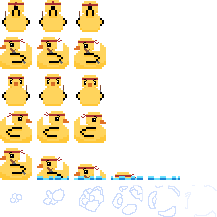
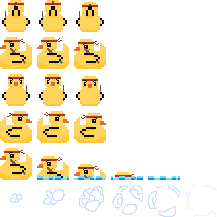
Ducks have now better animations and water lilies move slightly

diff --git a/src/de/essen_sie_ihre_toten/pond_simulator_2020/entities/duck/BaseDuck.java b/src/de/essen_sie_ihre_toten/pond_simulator_2020/entities/duck/BaseDuck.java
@@ -164,27 +164,27 @@ public abstract class BaseDuck extends Entity {
 
     // Methods
     // Rendering
-    public static Animation[] loadSprites(SpriteSheet spriteSheet) {
+    public static Animation[] loadSprites(SpriteSheet spriteSheet, int swimFramesNb) {
         Animation[] animations = new Animation[10];
 
         // Idle
-        animations[0] = loadAnimation(spriteSheet, 0, 1, 0); // Up
-        animations[1] = loadAnimation(spriteSheet, 0, 1, 1); // Left
-        animations[2] = loadAnimation(spriteSheet, 0, 1, 2); // Bottom
-        animations[3] = loadAnimation(spriteSheet, 0, 1, 3); // Right
+        animations[0] = loadAnimation(spriteSheet, 0, 1, 0, 300); // Up
+        animations[1] = loadAnimation(spriteSheet, 0, 1, 1, 300); // Left
+        animations[2] = loadAnimation(spriteSheet, 0, 1, 2, 300); // Bottom
+        animations[3] = loadAnimation(spriteSheet, 0, 1, 3, 300); // Right
 
         // Swim
-        animations[4] = loadAnimation(spriteSheet, 1, 3, 0); // Up
-        animations[5] = loadAnimation(spriteSheet, 1, 3, 1); // Left
-        animations[6] = loadAnimation(spriteSheet, 1, 3, 2); // Bottom
-        animations[7] = loadAnimation(spriteSheet, 1, 3, 3); // Right
+        animations[4] = loadAnimation(spriteSheet, 0, swimFramesNb, 0, 300); // Up
+        animations[5] = loadAnimation(spriteSheet, 0, swimFramesNb, 1, 300); // Left
+        animations[6] = loadAnimation(spriteSheet, 0, swimFramesNb, 2, 300); // Bottom
+        animations[7] = loadAnimation(spriteSheet, 0, swimFramesNb, 3, 300); // Right
 
         // Die
-        animations[8] = loadAnimation(spriteSheet, 0, 5, 4);
+        animations[8] = loadAnimation(spriteSheet, 0, 5, 4, 100);
         animations[8].setLooping(false);
 
         // Explosion
-        animations[9] = loadAnimation(spriteSheet, 0, 6, 5);
+        animations[9] = loadAnimation(spriteSheet, 0, 6, 5, 100);
         animations[9].setLooping(false);
 
         return animations;

diff --git a/src/de/essen_sie_ihre_toten/pond_simulator_2020/entities/water_lily/WaterLily.java b/src/de/essen_sie_ihre_toten/pond_simulator_2020/entities/water_lily/WaterLily.java
@@ -67,10 +67,10 @@ public class WaterLily extends Entity implements EntityTrigger {
         SpriteSheet spriteSheet = new SpriteSheet("resources/entities/waterLily/waterLily.png", 64, 64, 5);
 
         // Idle
-        animations[0] = loadAnimation(spriteSheet, 0, 1, 0); // Up
-        animations[1] = loadAnimation(spriteSheet, 0, 1, 1); // Left
-        animations[2] = loadAnimation(spriteSheet, 0, 1, 2); // Bottom
-        animations[3] = loadAnimation(spriteSheet, 0, 1, 3); // Right
+        animations[0] = loadAnimation(spriteSheet, 0, 2, 0, 1000); // Up
+        animations[1] = loadAnimation(spriteSheet, 0, 2, 1, 1000); // Left
+        animations[2] = loadAnimation(spriteSheet, 0, 2, 2, 1000); // Bottom
+        animations[3] = loadAnimation(spriteSheet, 0, 2, 3, 1000); // Right
     }
 
     public void render(Graphics graphics) {

diff --git a/src/de/essen_sie_ihre_toten/pond_simulator_2020/entities/Entity.java b/src/de/essen_sie_ihre_toten/pond_simulator_2020/entities/Entity.java
@@ -85,11 +85,11 @@ public abstract class Entity {
     // Methods
     // Rendering
     public static void loadSprites() throws SlickException {}
-    protected static Animation loadAnimation(SpriteSheet spriteSheet, int startX, int endX, int y) {
+    protected static Animation loadAnimation(SpriteSheet spriteSheet, int startX, int endX, int y, int duration) {
         Animation animation = new Animation();
 
         for (int x = startX; x < endX; x++) {
-            animation.addFrame(spriteSheet.getSprite(x, y), 100);
+            animation.addFrame(spriteSheet.getSprite(x, y), duration);
         }
 
         return animation;

diff --git a/src/de/essen_sie_ihre_toten/pond_simulator_2020/entities/duck/CaptainDuck.java b/src/de/essen_sie_ihre_toten/pond_simulator_2020/entities/duck/CaptainDuck.java
@@ -61,7 +61,7 @@ public class CaptainDuck extends BaseDuck implements EntityTrigger {
     public static void loadSprites() throws SlickException {
         SpriteSheet spriteSheet = new SpriteSheet("resources/entities/duck/captainDuck.png", 32, 32, 5);
 
-        animations = BaseDuck.loadSprites(spriteSheet);
+        animations = BaseDuck.loadSprites(spriteSheet, 3);
     }
 
     @Override

diff --git a/src/de/essen_sie_ihre_toten/pond_simulator_2020/entities/duck/Duck.java b/src/de/essen_sie_ihre_toten/pond_simulator_2020/entities/duck/Duck.java
@@ -33,6 +33,6 @@ public class Duck extends BaseDuck {
     public static void loadSprites() throws SlickException {
         SpriteSheet spriteSheet = new SpriteSheet("resources/entities/duck/normalDuck.png", 32, 32, 5);
 
-        animations = BaseDuck.loadSprites(spriteSheet);
+        animations = BaseDuck.loadSprites(spriteSheet, 2);
     }
 }
